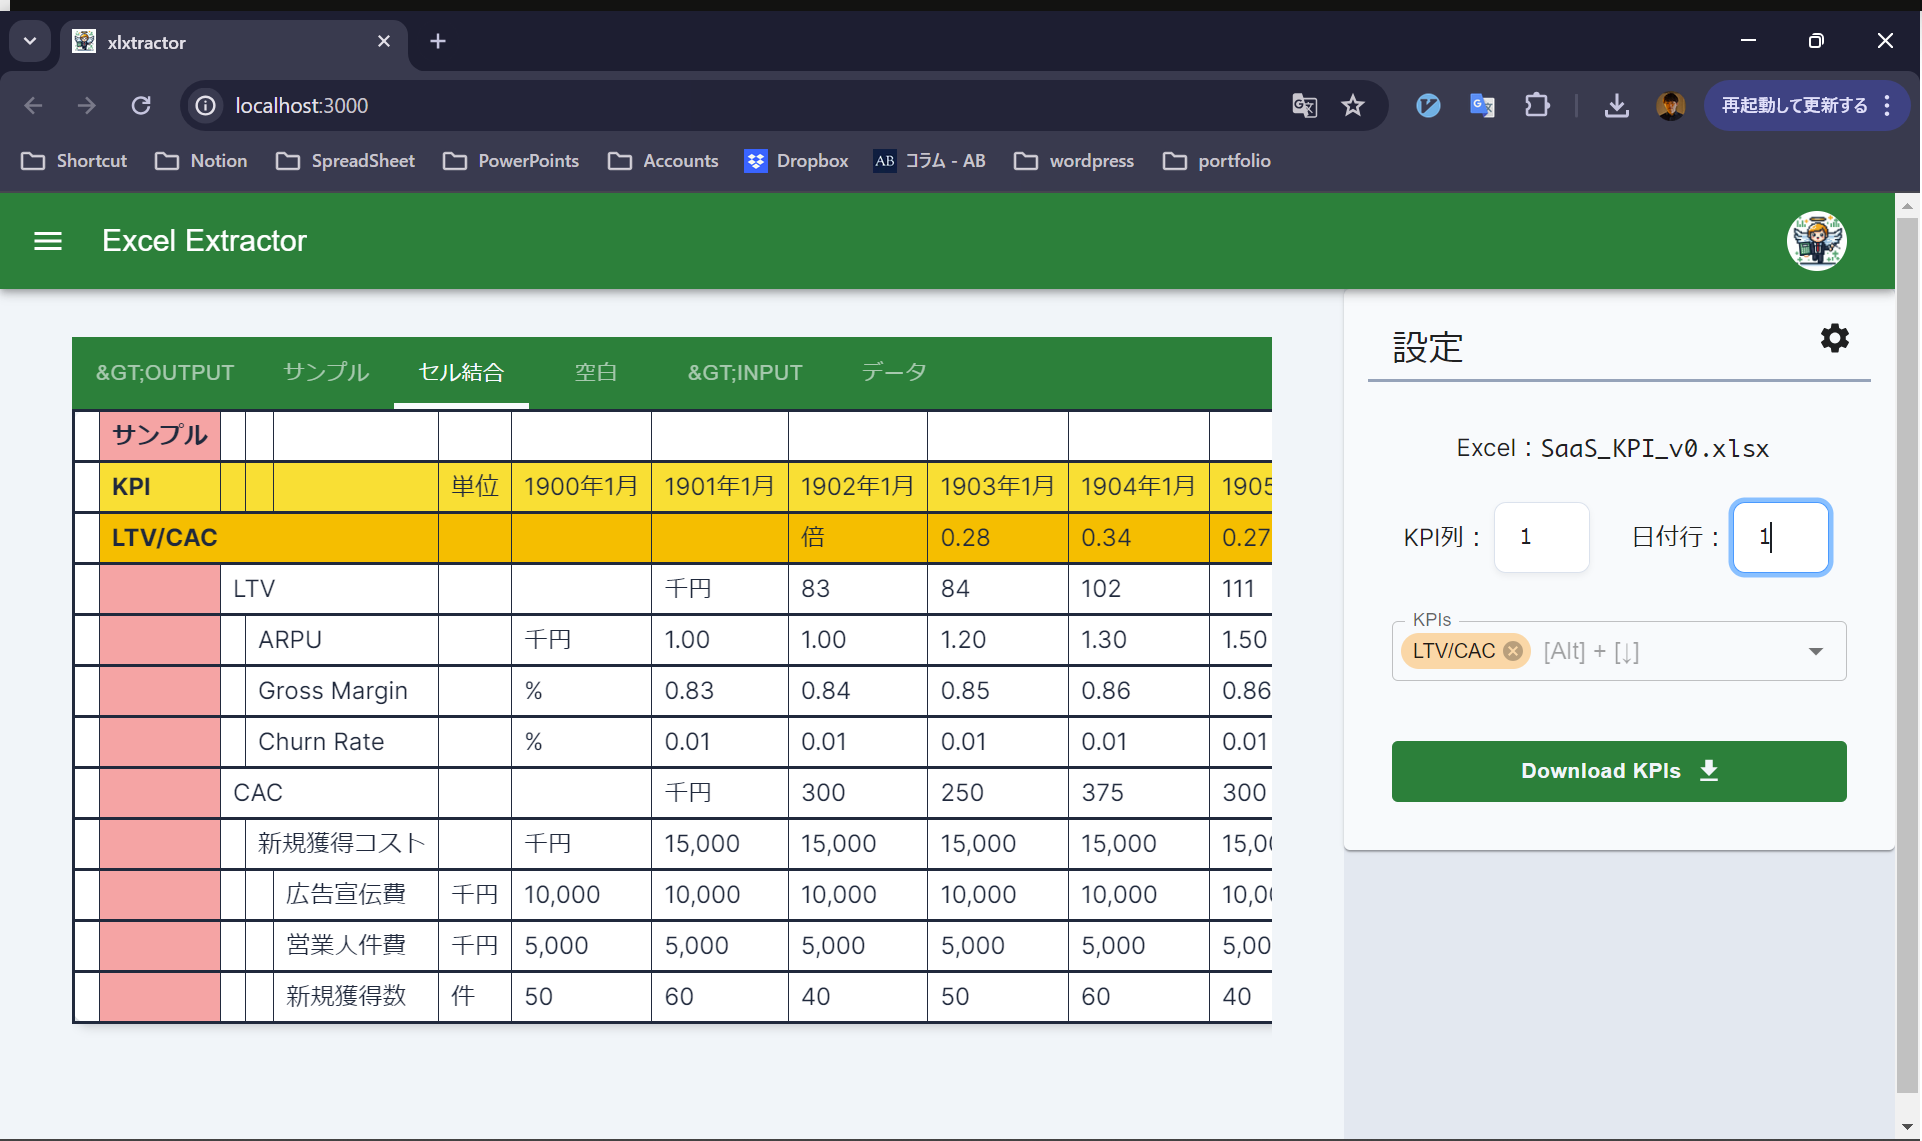
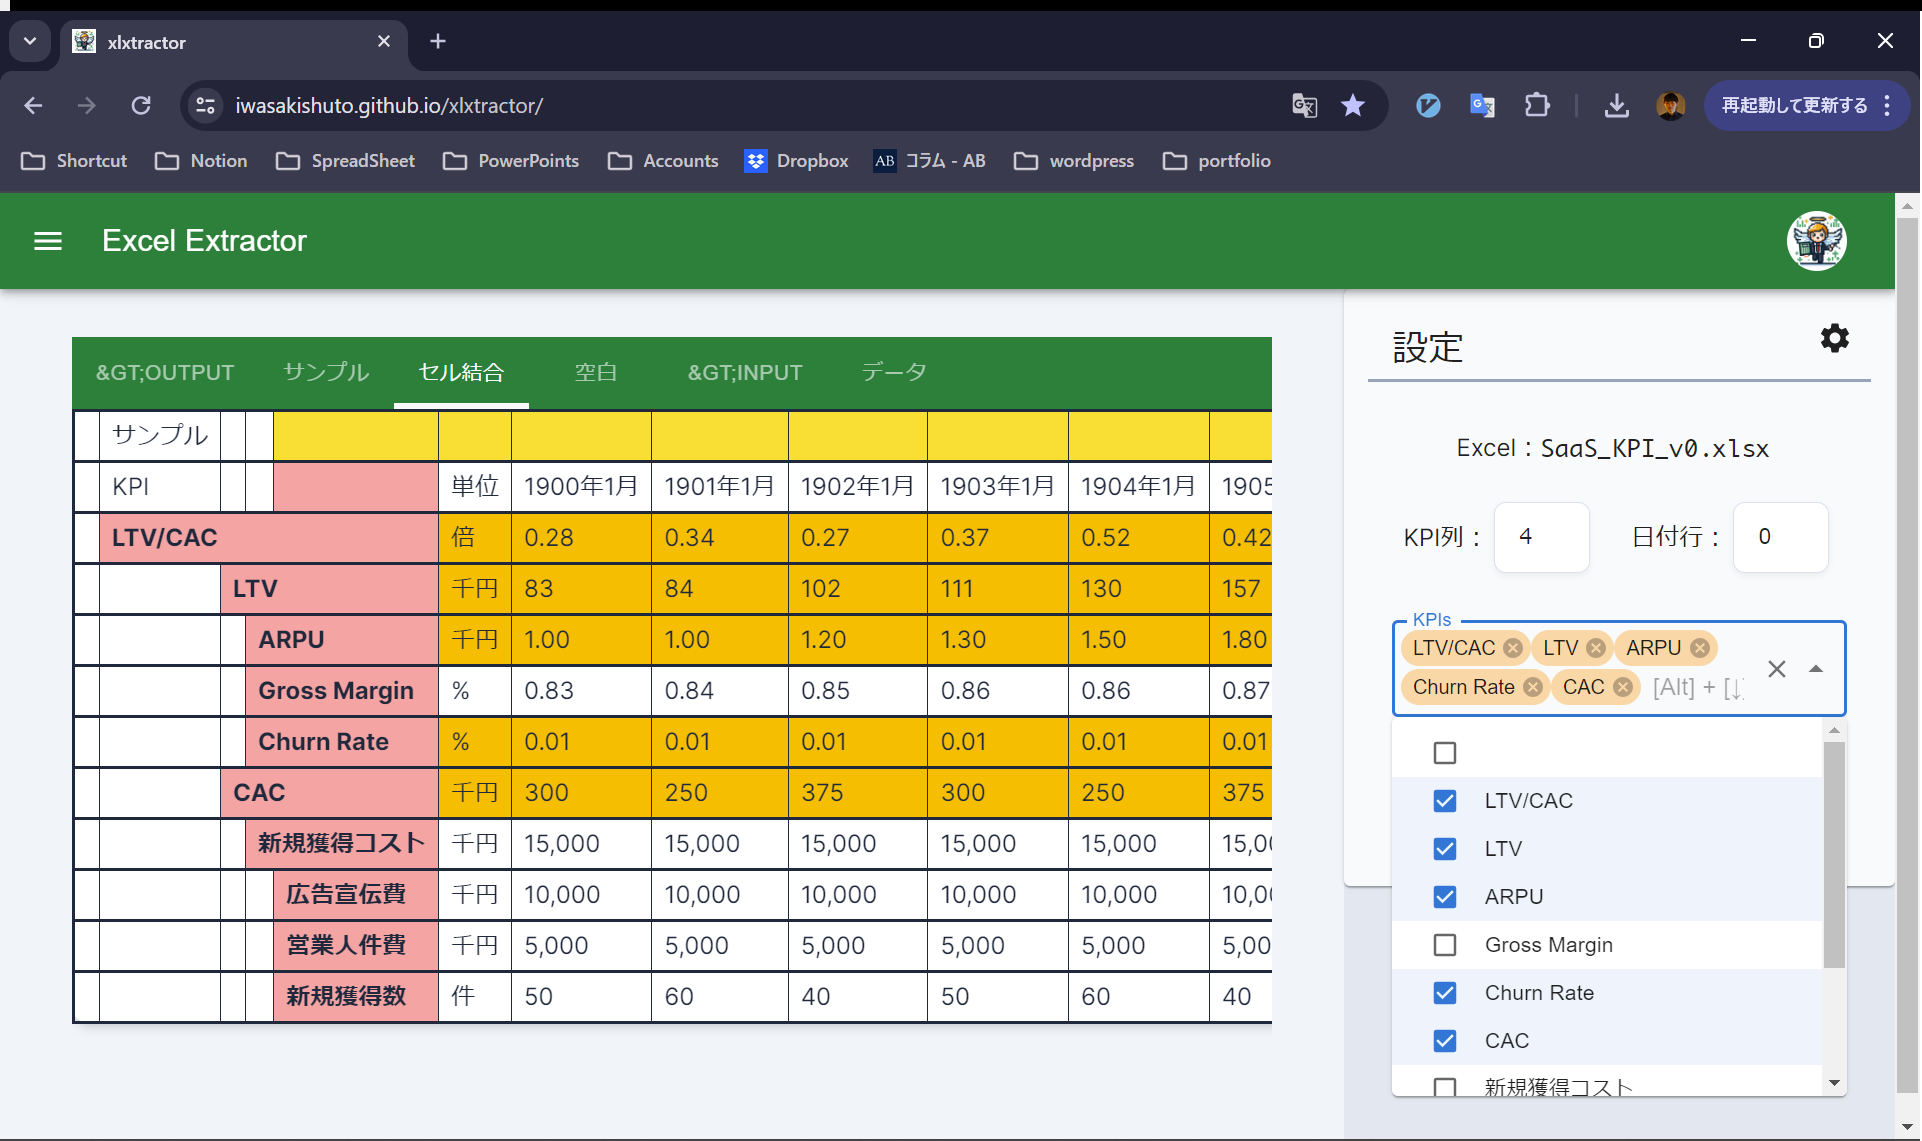
:tada: Enable to change the displayed number of columns and rows.

diff --git a/src/components/SettingCard.tsx b/src/components/SettingCard.tsx
@@ -25,6 +25,30 @@ import Grid from "@mui/material/Grid";
 import TextField from "@mui/material/TextField";
 import React, { useContext } from "react";
 
+const InputGrid = ({ label, num, setNum, disabled }: { label: string; num: number; setNum: React.Dispatch<React.SetStateAction<number>>; disabled: boolean }) => (
+  <Grid key={label} xs={12} sm={6} container className="items-center">
+    <label className="ml-auto mr-1" id="dispColumns">
+      {label}：
+    </label>
+    <NumberInput
+      id="dispColumns"
+      value={num}
+      onChange={(evt) => {
+        if (evt.target instanceof HTMLInputElement) {
+          setNum(Number(evt.target.value));
+        }
+      }}
+      onInputChange={(evt) => {
+        if (evt.target instanceof HTMLInputElement) {
+          setNum(Number(evt.target.value));
+        }
+      }}
+      className="w-16 mr-auto"
+      disabled={disabled}
+    />
+  </Grid>
+);
+
 type SettingCardProps = {
   sheet: wjcXlsx.WorkSheet | null;
   excelFilename: string;
@@ -36,6 +60,12 @@ type SettingCardProps = {
   kpis: KpiInfo[];
   setKpis: React.Dispatch<React.SetStateAction<KpiInfo[]>>;
   kpiOptions: KpiInfo[];
+  dispColumns: number;
+  setDispColumns: React.Dispatch<React.SetStateAction<number>>;
+  dispRows: number;
+  setDispRows: React.Dispatch<React.SetStateAction<number>>;
+  maxColumns: number;
+  maxRows: number;
 } & Omit<CardProps, "children">;
 
 const SettingCard: React.FC<SettingCardProps> = ({
@@ -49,6 +79,12 @@ const SettingCard: React.FC<SettingCardProps> = ({
   kpis,
   setKpis,
   kpiOptions,
+  dispColumns,
+  setDispColumns,
+  dispRows,
+  setDispRows,
+  maxColumns,
+  maxRows,
   className = "",
   ...props
 }) => {
@@ -60,53 +96,32 @@ const SettingCard: React.FC<SettingCardProps> = ({
       <CardContent>
         <Grid container spacing={1} className="mt-4">
           {excelFilename.length > 0 && (
-            <Grid container xs={12} className="mb-6 items-center">
-              <span className="ml-auto">Excel：</span>
-              <code className="mr-auto">{excelFilename}</code>
-              {/* <Input
-              id="excel-filenmae"
-              value={excelFilename}
-              onChange={(evt: React.ChangeEvent<HTMLInputElement>) => {
-                setExcelFilename(evt.target.value);
-              }}
-              className="mr-auto"
-              disabled={sheet === null}
-            ></Input> */}
+            <Grid container>
+              <Grid container xs={12} className="mb-4 items-center w-full">
+                <span className="ml-auto">Excel：</span>
+                <code className="mr-auto">{excelFilename}</code>
+              </Grid>
+              <Grid container xs={12} className="mb-4 w-full">
+                <Grid item xs={12} sm={6} className="items-center flex">
+                  <span className="ml-auto">最大列数：</span>
+                  <code className="mr-auto">{maxColumns}</code>
+                </Grid>
+                <Grid item xs={12} sm={6} className="items-center flex">
+                  <span className="ml-auto">最大行数：</span>
+                  <code className="mr-auto">{maxRows}</code>
+                </Grid>
+              </Grid>
             </Grid>
           )}
-          <Grid xs={12} sm={6} container className="items-center">
-            <label className="ml-auto mr-1" id="kpi">
-              KPI列：
-            </label>
-            <NumberInput
-              id="kpi"
-              value={kpiColIdx}
-              onChange={(evt) => {
-                if (evt.target instanceof HTMLInputElement) {
-                  setKpiColIdx(Number(evt.target.value));
-                }
-              }}
-              className="w-16 mr-auto"
-              disabled={sheet === null}
-            />
+          <Grid container className="mb-6 items-center">
+            <InputGrid label="列数" num={dispColumns} setNum={setDispColumns} disabled={sheet === null} />
+            <InputGrid label="行数" num={dispRows} setNum={setDispRows} disabled={sheet === null} />
           </Grid>
-          <Grid xs={12} sm={6} container className="items-center">
-            <label className="ml-auto mr-1" htmlFor="date">
-              日付行：
-            </label>
-            <NumberInput
-              id="date"
-              value={dateRowIdx}
-              onChange={(evt) => {
-                if (evt.target instanceof HTMLInputElement) {
-                  setDateRowIdx(Number(evt.target.value));
-                }
-              }}
-              className="w-16 mr-auto"
-              disabled={sheet === null}
-            />
+          <Grid container className="mb-6 items-center">
+            <InputGrid label="KPI列" num={kpiColIdx} setNum={setKpiColIdx} disabled={sheet === null} />
+            <InputGrid label="日付行" num={dateRowIdx} setNum={setDateRowIdx} disabled={sheet === null} />
           </Grid>
-          <Grid item xs={12} className="mt-6">
+          <Grid item xs={12}>
             <Autocomplete
               multiple
               disableCloseOnSelect

diff --git a/src/app/page.tsx b/src/app/page.tsx
@@ -16,7 +16,7 @@ import Main from "@/components/Styled/Main";
 import { drawerWidth, headerHeight, site_url } from "@/data/const";
 import { AcceptedExcelFileTypes } from "@/data/excel";
 import { DEFAULT_KPIS } from "@/data/kpi";
-import { get_cell_info } from "@/lib/xl_utils";
+import { get_cell_info, isColValid, isRowValid } from "@/lib/xl_utils";
 import type { KpiInfo } from "@/types";
 import * as wjcXlsx from "@mescius/wijmo.xlsx";
 import ChevronLeftIcon from "@mui/icons-material/ChevronLeft";
@@ -41,12 +41,15 @@ const Page: NextPage<PageProps> = () => {
   const [sheetIndex, setSheetIndex] = useState<number>(0);
   const [excelUploading, setExcelUploading] = useState<boolean>(false);
   const [excelFilename, setExcelFilename] = useState<string>("");
+  const [maxRows, setMaxRows] = useState<number>(0);
+  const [maxColumns, setMaxColumns] = useState<number>(0);
   // KPI states
   const [kpis, setKpis] = useState<KpiInfo[]>([]);
   const [kpiOptions, setKpiOptions] = useState<KpiInfo[]>([]);
   const [kpiColIdx, setKpiColIdx] = useState<number>(0);
   const [dateRowIdx, setDateRowIdx] = useState<number>(0);
-  const [maxRows, setMaxRows] = useState<number>(200);
+  const [dispRows, setDispRows] = useState<number>(200);
+  const [dispColumns, setDispColumns] = useState<number>(100);
 
   useEffect(() => {
     if (workbook !== null) {
@@ -56,6 +59,11 @@ const Page: NextPage<PageProps> = () => {
       setKpiOptions([]);
       setKpiColIdx(0);
       setDateRowIdx(0);
+      const ws: wjcXlsx.WorkSheet = workbook.sheets[sheetIndex];
+      if (ws) {
+        setMaxRows(ws.rows.filter((row) => isRowValid(row)).length);
+        setMaxColumns(ws.columns.filter((col) => isColValid(col)).length);
+      }
     }
   }, [sheetIndex]);
 
@@ -69,7 +77,7 @@ const Page: NextPage<PageProps> = () => {
 
       workbook.sheets[sheetIndex].rows
         .filter((row: wjcXlsx.WorkbookRow) => row == undefined || row.visible)
-        .slice(0, maxRows)
+        .slice(0, dispRows)
         .forEach((row: wjcXlsx.WorkbookRow, i: number) => {
           for (let c = 0; row.cells && c < row.cells.length; c++) {
             let { value, idx } = get_cell_info({
@@ -94,7 +102,7 @@ const Page: NextPage<PageProps> = () => {
       setKpis(selectedKpis_);
       setKpiOptions(kpiOptions_);
     }
-  }, [kpiColIdx, maxRows, sheetIndex]);
+  }, [kpiColIdx, dispRows, sheetIndex]);
 
   /**
    * Excel File Upload Handler
@@ -192,6 +200,12 @@ const Page: NextPage<PageProps> = () => {
             kpiOptions={kpiOptions}
             excelFilename={excelFilename}
             setExcelFilename={setExcelFilename}
+            dispColumns={dispColumns}
+            setDispColumns={setDispColumns}
+            dispRows={dispRows}
+            setDispRows={setDispRows}
+            maxColumns={maxColumns}
+            maxRows={maxRows}
           />
           <SampleExcelCard className="mt-12" />
         </div>
@@ -227,7 +241,7 @@ const Page: NextPage<PageProps> = () => {
                 ) : (
                   <div className="w-full h-full px-6 py-2">
                     <XlSheetNames workbook={workbook} sheetIndex={sheetIndex} setSheetIndex={setSheetIndex} />
-                    <XlBook worksheet={workbook?.sheets[sheetIndex]} dateRowIdx={dateRowIdx} kpiColIdx={kpiColIdx} kpis={kpis} maxRows={maxRows} />
+                    <XlBook worksheet={workbook?.sheets[sheetIndex]} dateRowIdx={dateRowIdx} kpiColIdx={kpiColIdx} kpis={kpis} maxRows={dispRows} maxColumns={dispColumns} />
                   </div>
                 )}
               </div>
@@ -252,6 +266,12 @@ const Page: NextPage<PageProps> = () => {
                 className="max-h-full"
                 excelFilename={excelFilename}
                 setExcelFilename={setExcelFilename}
+                dispColumns={dispColumns}
+                setDispColumns={setDispColumns}
+                dispRows={dispRows}
+                setDispRows={setDispRows}
+                maxColumns={maxColumns}
+                maxRows={maxRows}
               />
             )}
           </div>

diff --git a/src/lib/xl_utils.tsx b/src/lib/xl_utils.tsx
@@ -48,6 +48,14 @@ export function importXlStyle(cssStyle: CSSStyleDeclaration, xlsxStyle: wjcXlsx.
   }
 }
 
+export function isColValid(col: wjcXlsx.WorkbookColumn): boolean {
+  return col === undefined || col.visible;
+}
+
+export function isRowValid(row: wjcXlsx.WorkbookRow): boolean {
+  return row === undefined || row.visible;
+}
+
 /**
  * Get the visible column span.
  * @param columns The columns to be checked.
@@ -59,9 +67,12 @@ export function getVisColSpan({ columns, startFrom, colSpan }: { columns: wjcXls
   let res = colSpan;
   for (let i = startFrom; i < columns.length && i < startFrom + colSpan; i++) {
     let col = columns[i];
-    if (col && !col.visible) {
+    if (!isColValid(col)) {
       res--;
     }
+    // if (col && !col.visible) {
+    //   res--;
+    // }
   }
   return res;
 }
@@ -126,7 +137,7 @@ export function collectKPIdata({ sheet, kpis, kpiColIdx, dateRowIdx }: { sheet: 
 
   if (sheet.rows) {
     sheet.rows
-      .filter((row: wjcXlsx.WorkbookRow) => row === undefined || row.visible)
+      .filter((row: wjcXlsx.WorkbookRow) => isRowValid(row))
       .forEach((row: wjcXlsx.WorkbookRow, i: number) => {
         if (i === dateRowIdx) {
           let [_, values] = getKpiKeyValues(row, kpiColIdx);

diff --git a/src/components/Excel/XlBook.tsx b/src/components/Excel/XlBook.tsx
@@ -41,8 +41,8 @@ const XlBook: React.FC<XlBookProps> = ({ worksheet, kpis, dateRowIdx = 0, kpiCol
       <table className={`border-collapse table-fixd w-full shadow-md rounded-xl bg-white text-slate-800 ${className}`} {...props}>
         <colgroup>
           {columns
-            .slice(0, maxRowCells)
             .filter((col) => col.visible)
+            .slice(0, maxRowCells)
             .map((col, i: number) => (
               <col key={i} width={col.autoWidth ? "" : col.width != null ? `${col.width}px` : "60px"}></col>
             ))}

diff --git a/src/components/Excel/Xltrow.tsx b/src/components/Excel/Xltrow.tsx
@@ -42,6 +42,7 @@ const Xltrow: React.FC<XltrowProps> = ({
 
   let cellsCnt: number = 0;
   for (let c = 0; wbrow.cells && c < wbrow.cells.length; c++) {
+    if (c >= maxRows) break;
     let cell_info = get_cell_info({ wbrow: wbrow, columns: columns, idx: c });
     if (cell_info.value !== null) {
       tdProps.push({
